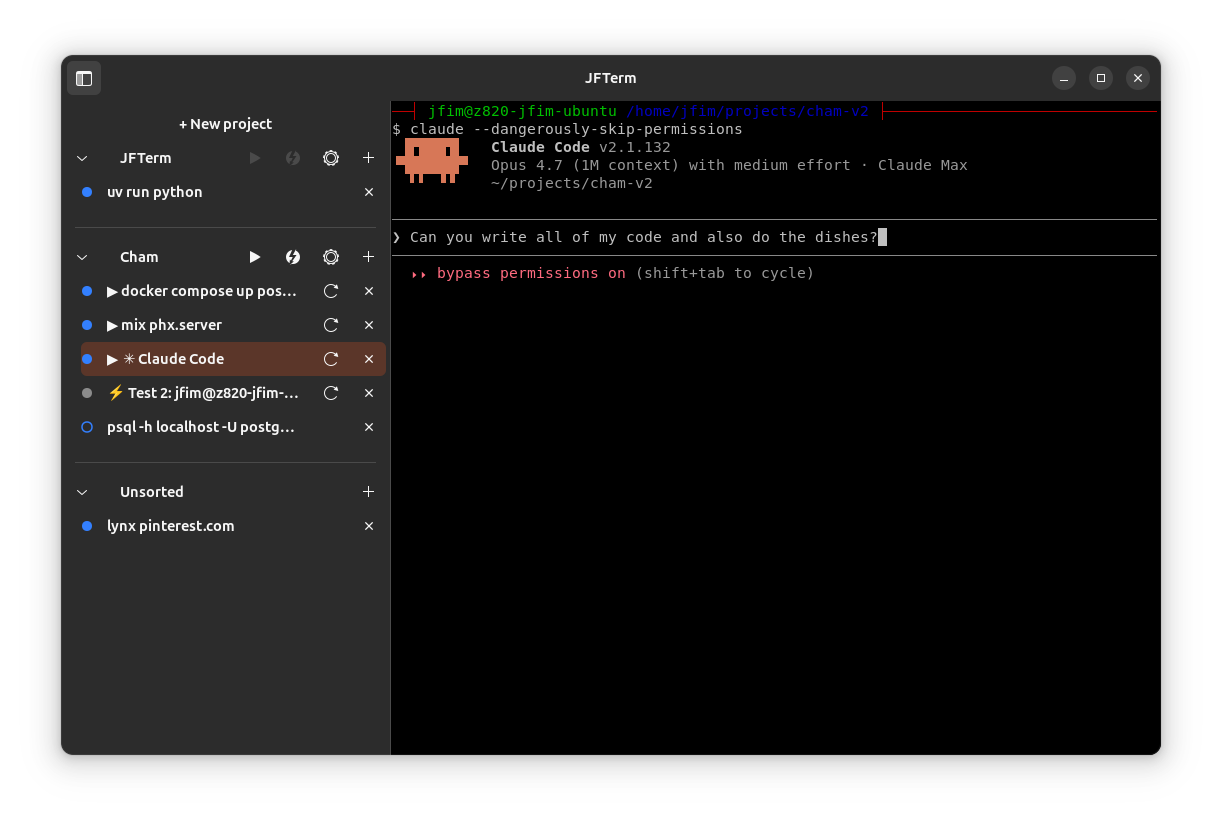
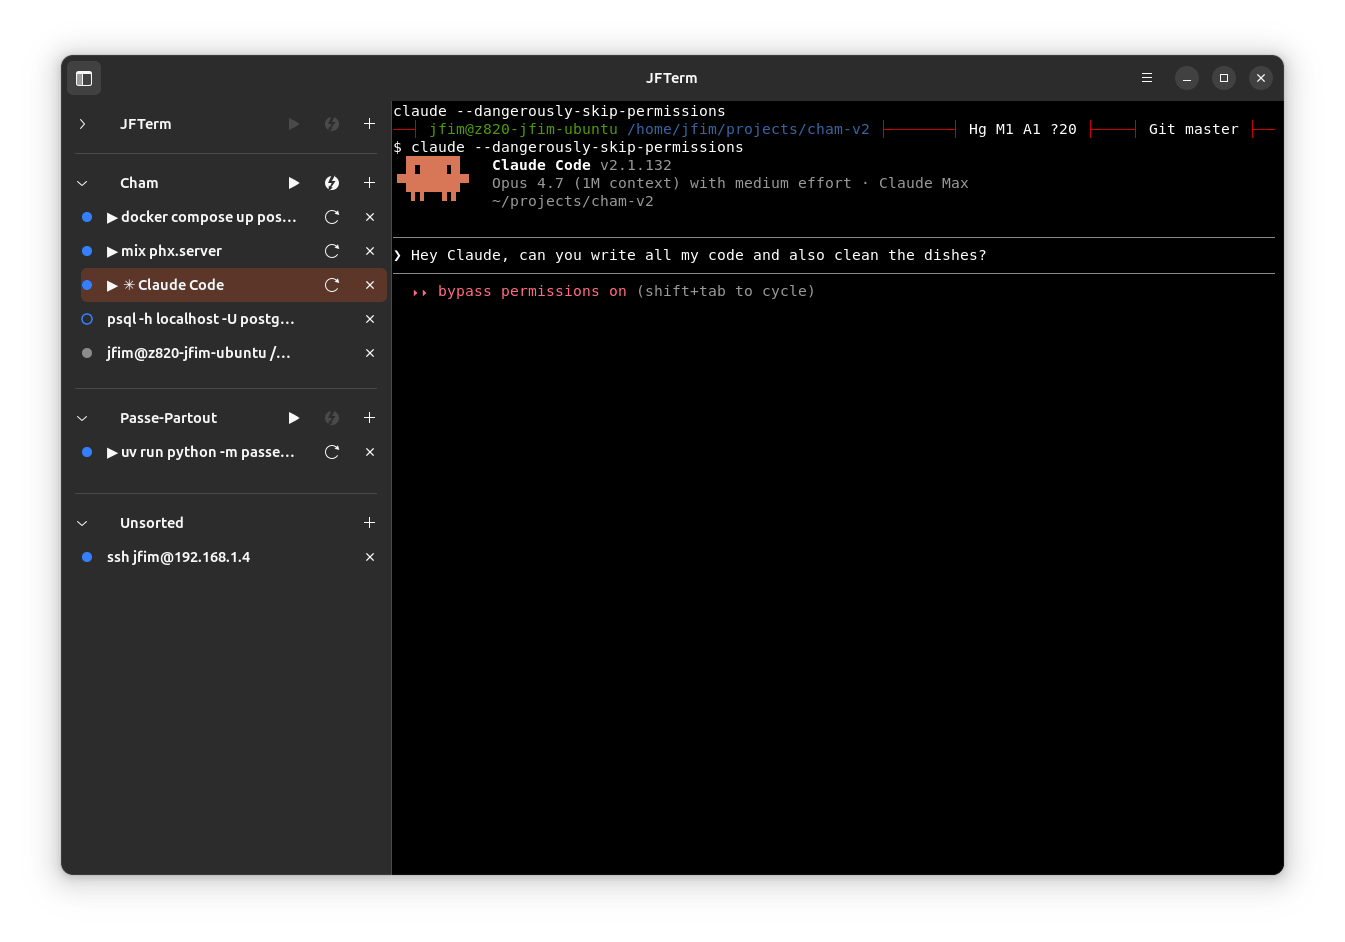
docs(readme): refresh feature list, add launcher/linked screenshots
Rewrite the Features section to focus on what differentiates JFTerm
from a regular terminal, add screenshots for the command launcher and
linked tabs, list `just`/`uv` as prerequisites, and split the AppArmor
workaround into its own conditional subheading. Quantize all PNGs
under images/ to 128 colors to cut page weight ~70%.

Changed region(s): [[0.0311, 0.0304, 0.964, 0.9428], [0.0933, 0.6387, 0.1866, 0.6691], [0.0933, 0.1217, 0.1244, 0.1521]]

diff --git a/README.md b/README.md
@@ -9,25 +9,32 @@ one-click access to each project's setup.
 
 ## Features
 
-- Per-project tab groups in a sidebar, plus an Unsorted bucket for ad-hoc tabs.
-- One-click launch of a project's configured startup commands, with
-  per-command delays, drag-and-drop reordering, and skipping of commands
-  already running in the project.
-- Flash commands: a per-project menu of one-off commands you can fire into
-  a new tab from the sidebar.
-- Restart button on tabs spawned from a startup command — kills the shell
-  and re-runs the original command in place.
-- Status dot per tab showing whether the shell is busy and whether the cwd
-  matches the tab's project.
-- Drag-and-drop to move tabs between projects.
-- Command launcher: double-tap Left Shift to fuzzy-search every flash
-  command, project action, and open tab in one ranked list.
-- Web tabs: any startup or flash command starting with `http://` or
-  `https://` opens a WebKitGTK mini-browser (back/forward/reload + URL
-  bar) in place of a shell. Right-click a group's `+` button for an
-  ad-hoc "New web tab…" prompt. Cookies and localStorage persist across
-  tabs and JFTerm restarts under `~/.local/share/jfterm/webkit/`.
-- Built on GTK 4 / libadwaita with VTE 3.91 for the terminal itself.
+- **Per-project tab groups** so each project's tabs stay together.
+- **One-click project launch** each project has a configured list of
+  startup commands; run the database server, the web server, and vim in one
+  click
+- **Flash commands** a per-project menu of one-off commands fired into
+  a new tab for things you run often but not on launch.
+- **Restartable tabs** tabs spawned from a startup or flash command
+  carry a ↻ button that restarts the command in the tab; perfect for restarting
+  the web server
+- **Per-tab status dot** showing whether the shell is busy and whether
+  its cwd still matches the project (driven by OSC 7 / OSC 133).
+- **Drag-and-drop tabs between projects** for when you open a terminal in the
+  wrong directory
+- **Command launcher** to launch flash commands without the mouse
+
+  ![Command launcher](images/command-launcher.png)
+
+- **Web tabs** allow you to open GitHub, ~~HN~~, and Jira at the same time
+- **Linked tabs** a command of the form `linked: <url|auto> <cmd>` opens a
+  split tab with a webview on top and the command's terminal below. Perfect for
+  web servers, static blog previewers, and jupyter notebooks
+
+  ![Linked tab](images/linked-tab.png)
+
+- **Built-in MCP server** (off by default) to allow your favorite LLM to
+  restart the webserver and open new tabs
 
 ## Running
 
@@ -39,24 +46,8 @@ System libraries (Ubuntu 24.04 — adjust package names for other distros):
         libvte-2.91-gtk4-0 \
         python3-gi python3-cairo
 
-On Ubuntu 24.04, web tabs additionally need an AppArmor profile that
-allows `bwrap` (WebKit's sandbox helper) to use unprivileged user
-namespaces — without it, web tabs fail to start with a `bwrap: setting up
-uid map: Permission denied` error. The minimal scoped fix:
-
-    sudo tee /etc/apparmor.d/bwrap > /dev/null <<'EOF'
-    abi <abi/4.0>,
-    include <tunables/global>
-
-    profile bwrap /usr/bin/bwrap flags=(unconfined) {
-      userns,
-      include if exists <local/bwrap>
-    }
-    EOF
-    sudo apparmor_parser -r /etc/apparmor.d/bwrap
-
-This grants user-namespace use to `/usr/bin/bwrap` only; the rest of the
-system stays restricted.
+You'll also need [`just`](https://github.com/casey/just) and
+[`uv`](https://github.com/astral-sh/uv) on your `PATH`.
 
 Then either install it as a desktop application (recommended — adds an
 application-menu launcher that pins cleanly to the dock):
@@ -71,6 +62,28 @@ application-menu launcher that pins cleanly to the dock):
 file under `~/.local/share/applications/`, the icon under
 `~/.local/share/icons/hicolor/scalable/apps/`, and an isolated venv at
 `~/.local/share/jfterm/venv`. `just uninstall` reverses everything.
+
+### Web/linked tabs on Ubuntu 24.04
+
+Web and linked tabs need an AppArmor profile that allows `bwrap`
+(WebKit's sandbox helper) to use unprivileged user namespaces —
+otherwise they fail to start with `bwrap: setting up uid map:
+Permission denied`. Skip this if you don't intend to use web or linked
+tabs. The minimal scoped fix:
+
+    sudo tee /etc/apparmor.d/bwrap > /dev/null <<'EOF'
+    abi <abi/4.0>,
+    include <tunables/global>
+
+    profile bwrap /usr/bin/bwrap flags=(unconfined) {
+      userns,
+      include if exists <local/bwrap>
+    }
+    EOF
+    sudo apparmor_parser -r /etc/apparmor.d/bwrap
+
+This grants user-namespace use to `/usr/bin/bwrap` only; the rest of
+the system stays restricted.
 
 ## Shell integration (OSC 7 + OSC 133)
 
@@ -126,9 +139,9 @@ Tools available in this MVP:
 - `restart_tab_tool(id)` — restart a tab spawned with a startup command.
 - `focus_tab_tool(id)` — switch to a tab and bring its input to the foreground.
 
-The server binds to localhost only and has no authentication. A
-preferences UI to enable/disable it and pick a port is on the roadmap;
-see issue #20.
+The server binds to localhost only and has no authentication. It is
+disabled by default — enable it and pick a port from the preferences
+pane.
 
 ## Development
 